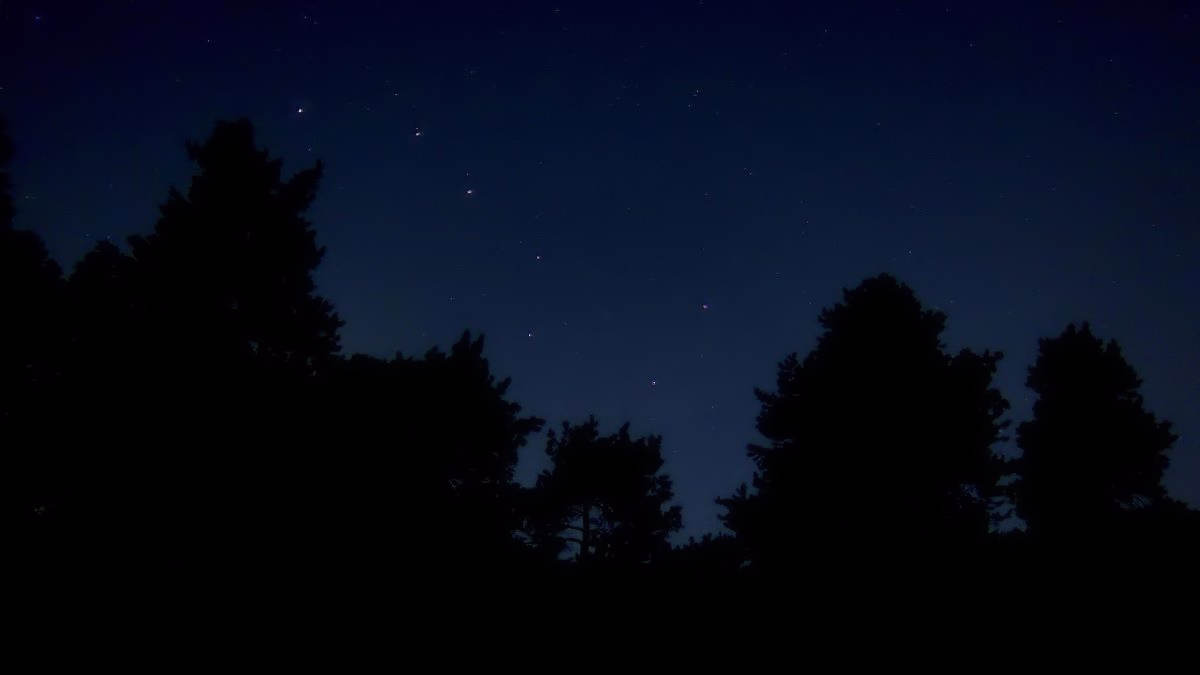
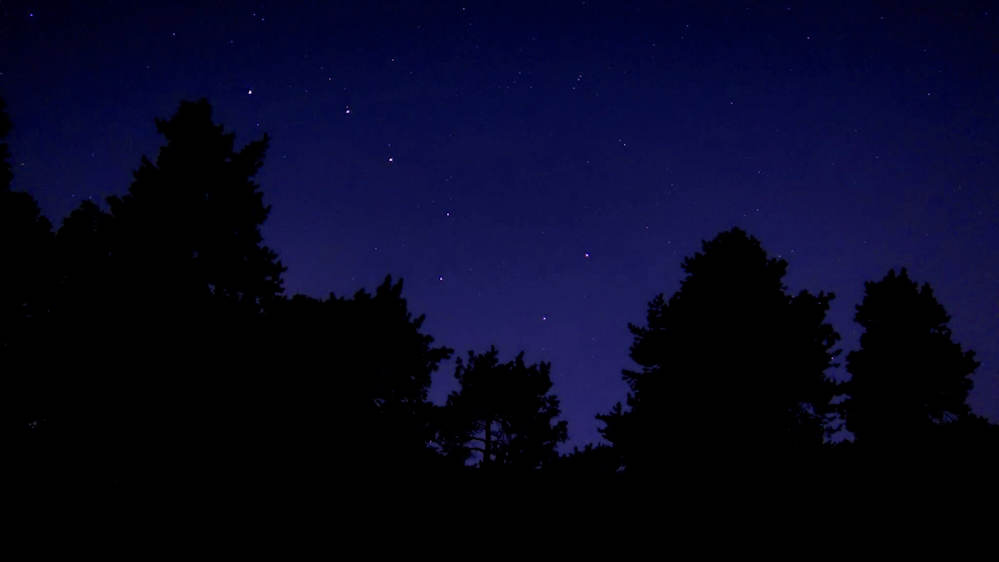
one more

diff --git a/main.css b/main.css
@@ -3,28 +3,29 @@ body {
 	background-image: url("images/BigD.jpg");
 	font-family: Verdana, Geneva, Tahoma, sans-serif;
 	height: 100vh;
+	padding-top: 100px;
 	background-color: black;
 	background-repeat: no-repeat;
 	background-position-x: center;
 	background-position-y: center;
-	background-size: 100%;
-	color: white;		
-	height: 100vh;
+	background-size: 90%;	
+/*	color: white;		
+	height: 100vh; */
 	}
 .div01 {
 	font-family: Verdana, Geneva, Tahoma, sans-serif;
-	color: rgb(36, 101, 161);	
+	color: rgb(161, 36, 144);	
 	padding-top: 500px;	
 	padding-left: 50px;
 	}
 .div02 {
+	background-image: url("images/BigD.jpg");
 	font-family: Verdana, Geneva, Tahoma, sans-serif;
 	height: 100vh;
+	padding-top: 100px;
 	background-color: black;
-	background-image: url("images/BigD.jpg");
 	background-repeat: no-repeat;
 	background-position-x: center;
 	background-position-y: center;
-	background-size: 100%;
-	color: rgb(13, 118, 136);		
+	background-size: 90%;
 	} 

diff --git a/index.html b/index.html
@@ -7,8 +7,8 @@
 </head>
 <body>
     <div class="div01">
-        <h1>For Now</h1>
-        That's it for now.
+        <h1>For NoW</h1>
+        That's it for now ..........
         </br>How 'bout that background?
     </div>
 </body>
